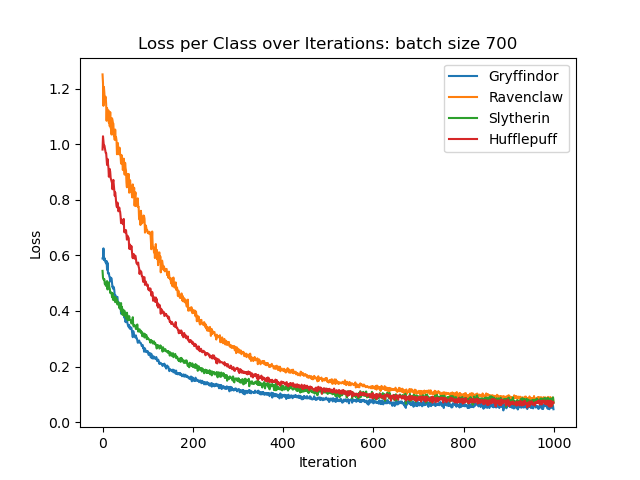
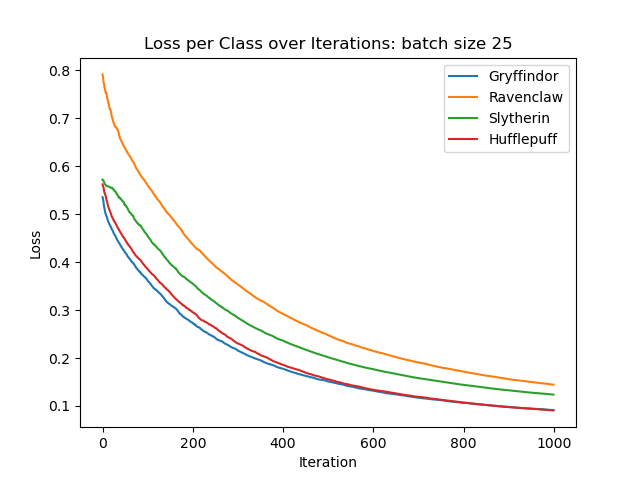
feature/issue-1

diff --git a/Section3-Model and Training/log_reg.py b/Section3-Model and Training/log_reg.py
@@ -42,7 +42,7 @@ class MyLogisticRegression():
 		softmax = exp_z / np.sum(exp_z, axis=1, keepdims=True)
 		return (softmax)
 
-	def loss_(self, y, y_hat):
+	def loss_(self, y, y_hat):#binary_cross_entropy
 		y_hat = y_hat  + 1e-15  # to prevent log(0) or log(1)
 		loss = np.sum(y * np.log(y_hat) + (1.0 - y) * np.log(1.0 - y_hat), axis=0) / len(y)
 		return (-loss)
@@ -51,7 +51,15 @@ class MyLogisticRegression():
 		m = len(x)
 		gradient = np.dot(x.T, (y_hat - y)) / m 
 		return gradient
-		
+	
+	def early_stopping(self):#techniqually you need to calculate the loss on a validation set and then use that loss to evaluate
+		temp = self.losses.iloc[-2:]
+		tolerance = [0.001, 0.001, 0.001, 0.001]
+
+		if (np.abs(np.array(temp.iloc[0:1]) - np.array((temp.iloc[1:2]))) < tolerance).all():
+			return True
+		return False
+
 	def fit(self, x, y):
 		y_ = self.lab_encoder(y.squeeze())
 		self.theta = np.random.randn(x.shape[1], y_.shape[1]) * np.sqrt(2 / x.shape[1])
@@ -60,18 +68,25 @@ class MyLogisticRegression():
 			self.batch = len(x)
 
 		for _ in range(self.max_iter):
-			indices = np.random.permutation(len(x))[:self.batch]
+			for class_index in range(self.theta.shape[1]):
+				indices = np.random.permutation(len(x))[:self.batch]
 
-			x_batch = x[indices]
-			y_batch = y_[indices]
-
-			h_ = self.softmax_(x_batch)
-			grad= self.gradient(x_batch, y_batch, h_)
-			self.theta -= self.alpha * grad
-			
-			loss = self.loss_(y_batch, h_)
+				x_batch = x[indices]
+				y_batch = y_[:, class_index][indices]
+				
+				h_ = self.softmax_(x_batch)
+				grad= self.gradient(x_batch, y_batch, h_[:, class_index])
+				
+				self.theta[:, class_index] -= self.alpha * grad
+				
+			loss = self.loss_(y_, self.softmax_(x))
 			self.losses.loc[len(self.losses)] = loss.flatten()
 			print(f"iteration {_}/{self.max_iter}: loss: {loss}")
+
+			#early stopping
+			# if _ > 0 and self.early_stopping() == True:
+				# break
+
 		self.visualize_training()
 		self.save_model()
 

diff --git a/Section3-Model and Training/main.py b/Section3-Model and Training/main.py
@@ -16,13 +16,12 @@ import joblib
 import yaml
 import sys
 
-def training(lr, iteration, batch_size, file):
+def training(lr, iteration, batch_size, file, features):
     data_raw = pd.read_csv(file)
     data = data_raw.dropna()
     scaler = StandardScaler()
 
-    X_raw = data[["Divination", "Charms", "Flying", "Ancient Runes", "Defense Against the Dark Arts"]]
-    # X_raw = data[["Herbology", "Astronomy", "Ancient Runes", "Defense Against the Dark Arts"]]
+    X_raw = data[features]
     y = data[["Hogwarts House"]]
     X = scaler.fit_transform(X_raw)
 
@@ -80,9 +79,10 @@ if __name__ == "__main__":
     file = config['data_file']
     model = config['model_file']
     mode = config['mode']
+    features = [key for key, value in config['features'].items() if value == True]
 
     if (mode == "train"):
-        training(lr, epoches, batch_size, file)
+        training(lr, epoches, batch_size, file, features)
     elif (mode == "test"):
         if model is None:
             print("model file is not provided")
